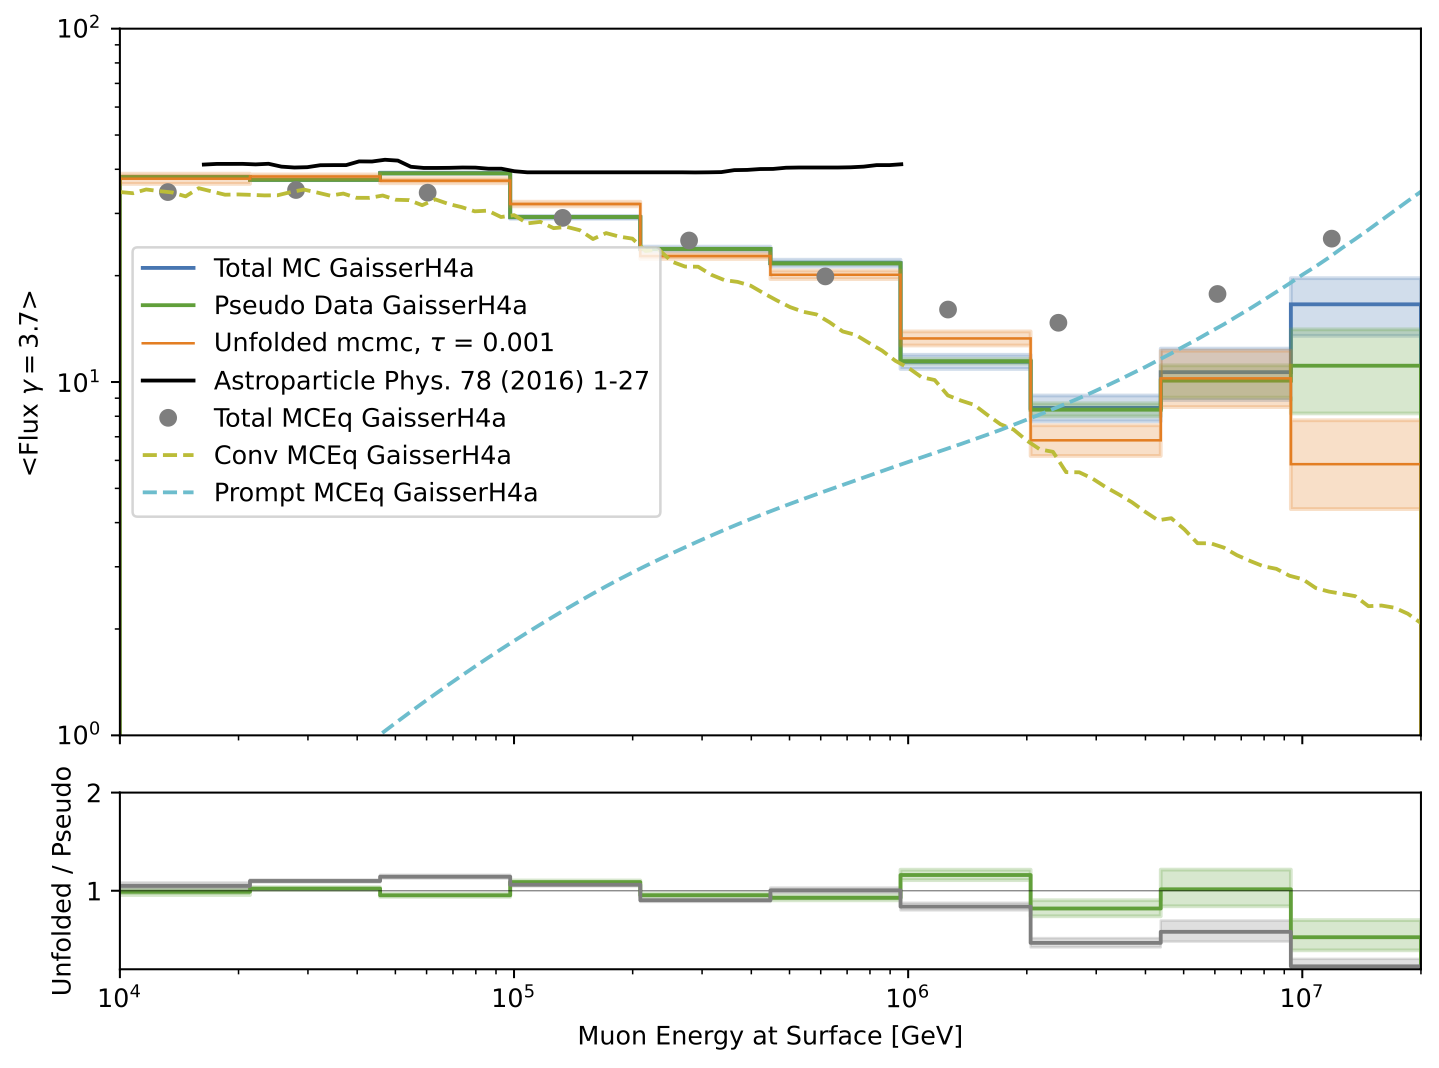
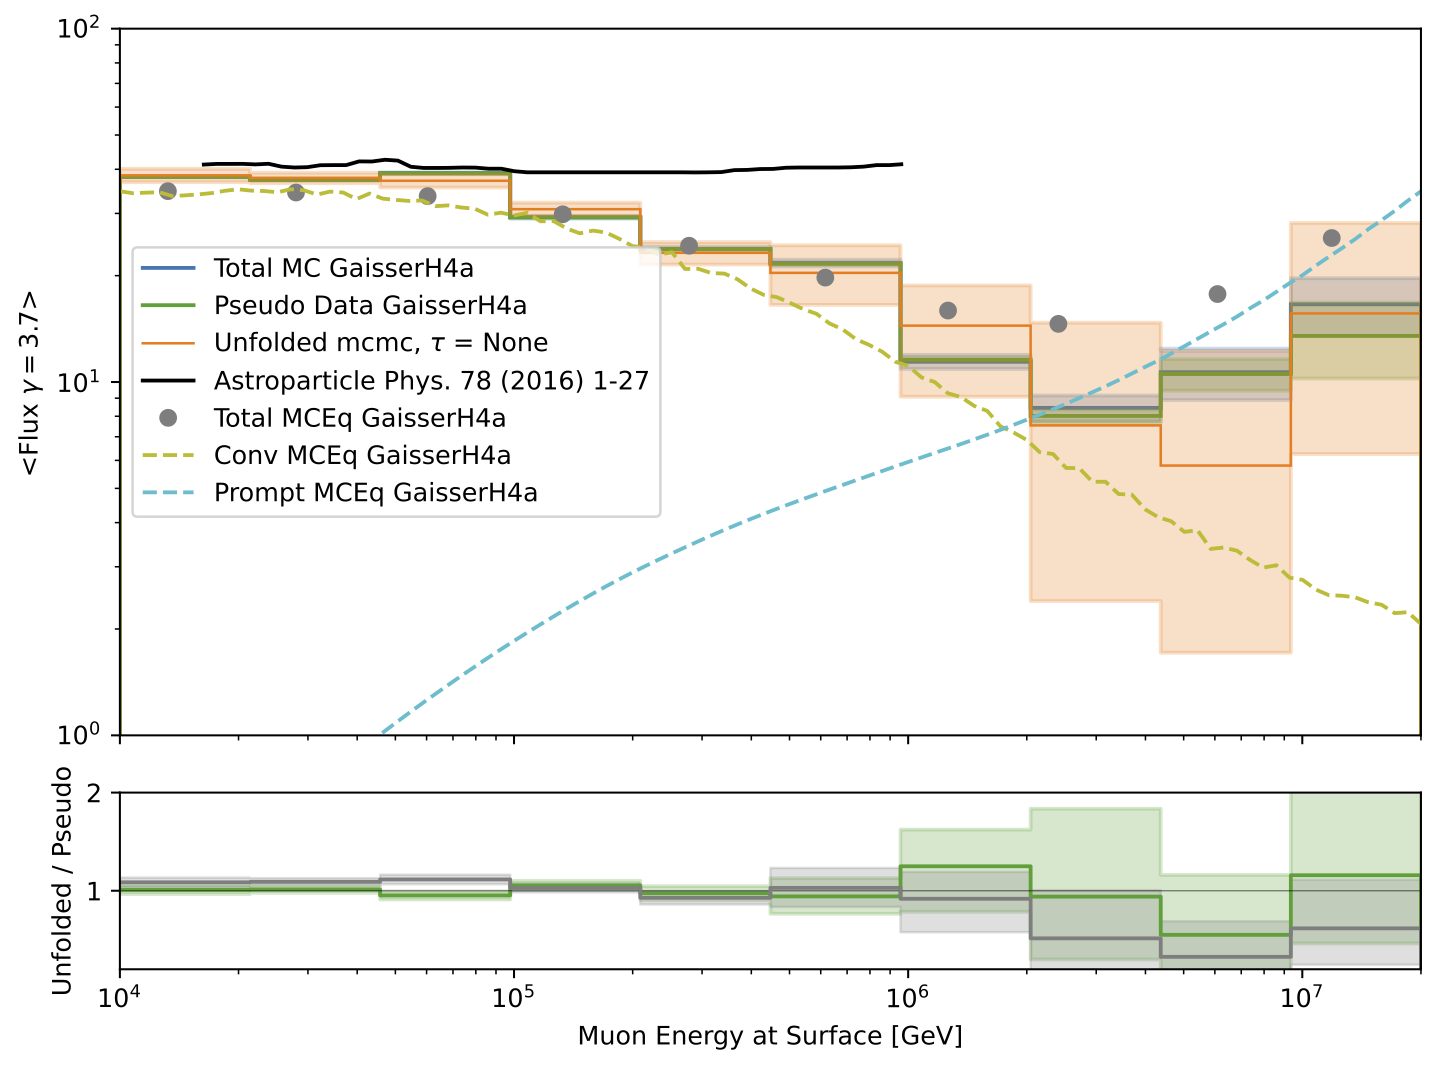
add systematic fluxes, corner

Changed region(s): [[0.0612, 0.1545, 1.0, 0.618], [0.0917, 0.7416, 1.0, 0.927], [0.3363, 0.309, 0.3975, 0.3399]]

diff --git a/source/docs/Analysis_unfolding.rst b/source/docs/Analysis_unfolding.rst
@@ -512,6 +512,8 @@ Results: Unfolding with systematics
 
 The muon flux is unfolded with the leading muon energy at entry as a proxy. All 5 systematics are included in the unfolding as described above. For the minimization, MCMC is used.
 
+In the following, the result is shown without applying any regularization. 
+
 .. _unfolding_muon_flux_systematics:
 .. figure:: images/plots/unfolding/unfolding_systematics/unfolding_flux_gamma_0.png
   :width: 600px
@@ -526,3 +528,39 @@ The muon flux is unfolded with the leading muon energy at entry as a proxy. All 
 
   : Unfolded differential muon flux at surface with an energy rescaling of :math:`\gamma = 3.7` to get more insights into the spectrum. The true distribution using the entire dataset is shown 
   in blue, a bootstrapped sample is shown in green (used for the unfolding), and the unfolded distribution is shown in orange. For reference, a former flux measured by IceCube is shown black. Additionally, predictions from MCEq are included. These are divided into 3 parts. The grey dots represent the total muon flux contribution at surface. The ratio between MCEq and the unfolding is done at the energy expectation per bin. For this, the energy expectation per bin is calculated on MC using alle muons in step 0. The conventional component is shown in dashed, light-green, the prompt component in dashed, light-blue.
+
+The correlation between the systematics and the unfolded bins
+are shown in the following figure.
+
+.. _correlation_systematics_unfolding:
+.. figure:: images/plots/unfolding/unfolding_systematics/corner.png
+  :width: 800px
+
+  : Correlation between the systematics and the unfolded bins. The first five bins represent the systematics, the next one is the underflow bin, followed by the unfolding bins, and the last bin is the overflow bin.
+
+
+In the following, the result for a regularization of :math:`\tau = 0.001` is shown.
+
+.. _unfolding_muon_flux_systematics_tau001:
+.. figure:: images/plots/unfolding/unfolding_systematics/unfolding_flux_gamma_0_tau001.png
+  :width: 600px
+
+  : Unfolded differential muon flux at surface with systematics. A regularization of :math:`\tau = 0.001` is used. The true distribution using the entire dataset is shown 
+  in blue, a bootstrapped sample is shown in green (used for the unfolding), and the unfolded distribution is shown in orange.
+  Additionally, predictions from MCEq are included. These are divided into 3 parts. The grey dots represent the total muon flux contribution at surface. The ratio between MCEq and the unfolding is done at the energy expectation per bin. For this, the energy expectation per bin is calculated on MC using alle muons in step 0. The conventional component is shown in dashed, light-green, the prompt component in dashed, light-blue.
+
+.. _unfolding_muon_flux_systematics_gamma_37_tau001:
+.. figure:: images/plots/unfolding/unfolding_systematics/unfolding_flux_gamma_3.7_tau001.png
+  :width: 600px
+
+  : Unfolded differential muon flux at surface with an energy rescaling of :math:`\gamma = 3.7` to get more insights into the spectrum. A regularization of :math:`\tau = 0.001` is used. The true distribution using the entire dataset is shown 
+  in blue, a bootstrapped sample is shown in green (used for the unfolding), and the unfolded distribution is shown in orange. For reference, a former flux measured by IceCube is shown black. Additionally, predictions from MCEq are included. These are divided into 3 parts. The grey dots represent the total muon flux contribution at surface. The ratio between MCEq and the unfolding is done at the energy expectation per bin. For this, the energy expectation per bin is calculated on MC using alle muons in step 0. The conventional component is shown in dashed, light-green, the prompt component in dashed, light-blue.
+
+The correlation between the systematics and the unfolded bins 
+are shown in the following figure. The regularization reduces the correlation.
+
+.. _correlation_systematics_unfolding_tau001:
+.. figure:: images/plots/unfolding/unfolding_systematics/corner_tau001.png
+  :width: 800px
+
+  : Correlation between the systematics and the unfolded bins. A regularization of :math:`\tau = 0.001` is used. The first five bins represent the systematics, the next one is the underflow bin, followed by the unfolding bins, and the last bin is the overflow bin. 
